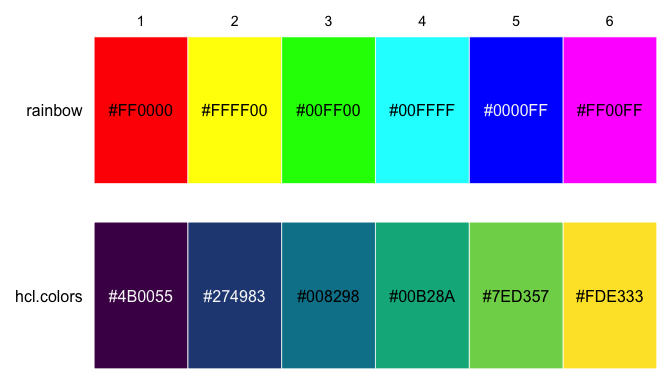
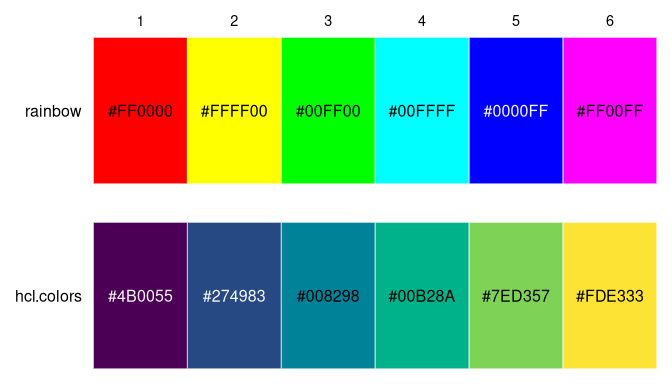
New function console_color_test() Mention it in README

diff --git a/README.md b/README.md
@@ -69,13 +69,19 @@ print_color(list(
 
 <img src="man/figures/README-/print-color.svg" alt="" width="80%" />
 
-For `print_color()` to work best, your console must support 24-bit
+For `print_color()` to work best, your R console must support 24-bit
 colors; that way it can display all 256<sup>3</sup> colors in the hex
-RGB color space (i.e., colors of the form `"#rrggbb"`). If your console
-does not support that many colors, then it may (depending on your
-platform) map each specified color to the closest printable color.
-`print_color()` is indebted to the [cli package](https://cli.r-lib.org/)
-for color printing in the console.
+RGB color space (i.e., colors of the form `"#rrggbb"`). To visually
+inspect if your console supports 256<sup>3</sup> colors, you can use
+`console_color_test()`; visit the help page see the output of a
+successful test for 256<sup>3</sup> colors.
+
+If your console does not support that many colors, then it may
+(depending on your platform) map each specified color to the closest
+printable color.
+
+`print_color()` and `console_color_test()` are indebted to the [cli
+package](https://cli.r-lib.org/) for color printing in the console.
 
 ## Selecting contrasting foreground colors
 
@@ -127,9 +133,6 @@ Some use cases for this are:
 2.  With the `grid` package, the drawing of raster objects can be sped
     up by first converting them to hex strings. See the `col2hex()` help
     page for an example.
-
-`col2hex()` is indebted to the [farver
-package](https://farver.data-imaginist.com/) for color conversion.
 
 ## Randomly sampling colors
 
